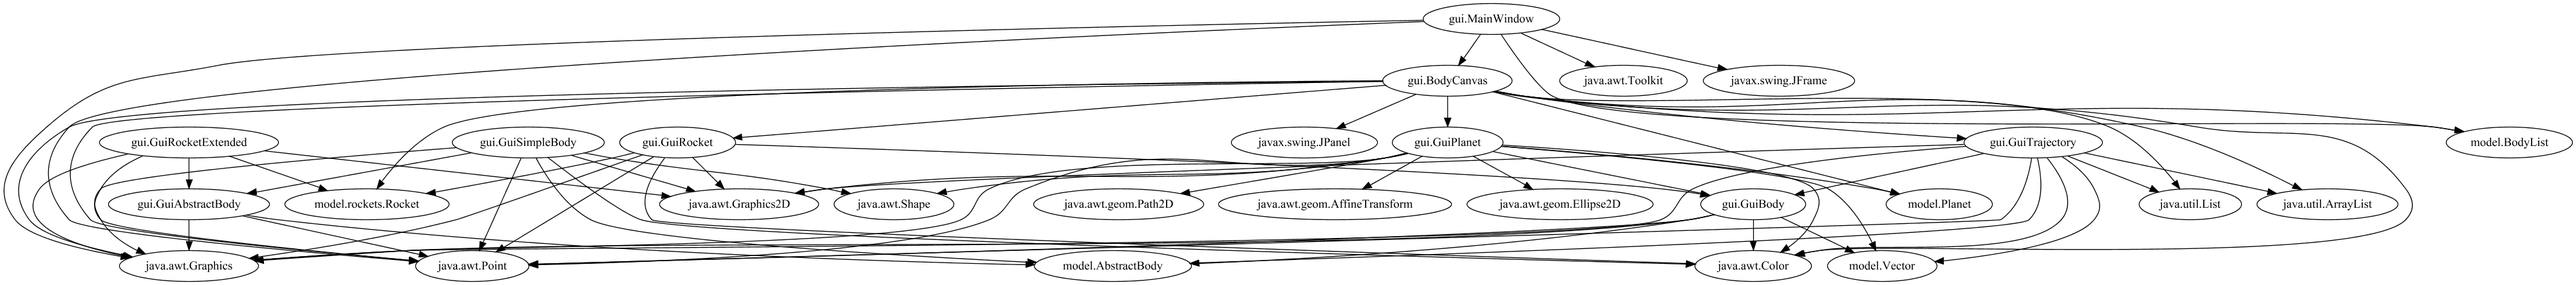
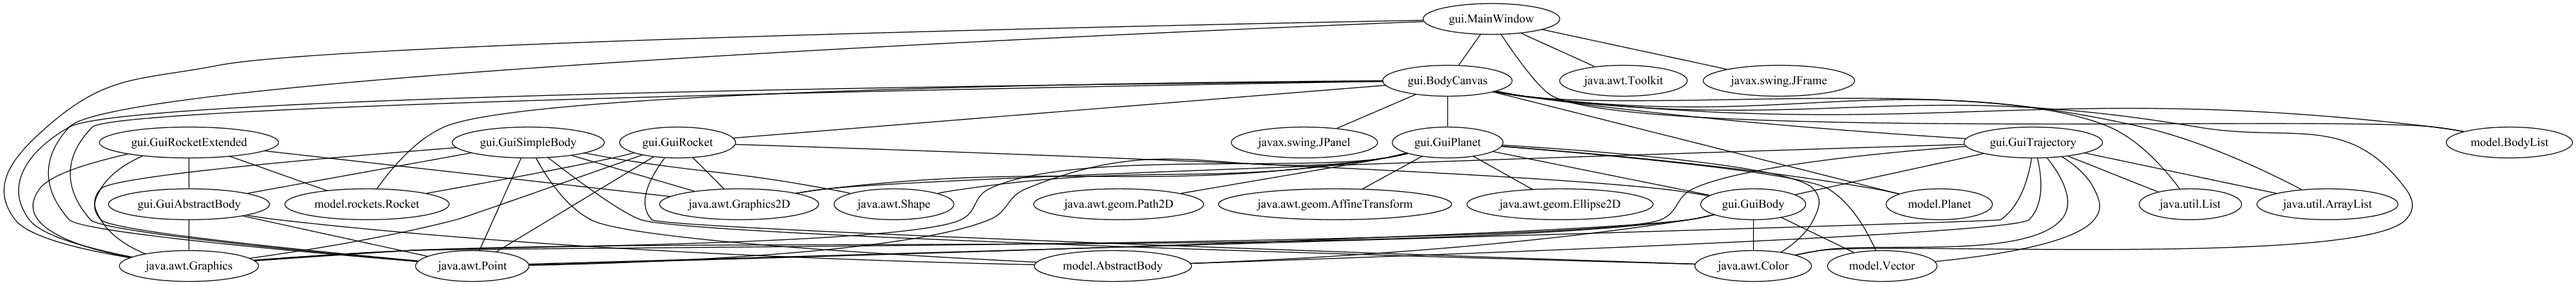
getTypes added

diff --git a/stringConnectionLocator/src/test/java/de/stringConnectionLocator/JavaFileTest.java b/stringConnectionLocator/src/test/java/de/stringConnectionLocator/JavaFileTest.java
@@ -3,23 +3,20 @@ package de.stringConnectionLocator;
 import static org.assertj.core.api.Assertions.assertThat;
 
 import java.io.IOException;
-import java.nio.file.Files;
 import java.util.List;
+import java.util.Set;
 
 import org.junit.Before;
 import org.junit.Test;
 
 public class JavaFileTest {
-	private static final String FILE = "C:\\Users\\Pieed\\git\\home\\RocketLearn\\src\\model\\BodyList.java";
+	private static final String FILE = "C:\\Users\\Pieed\\git\\home\\RocketLearn\\src\\model\\Planet.java";
+	private static final String FILE2 = "C:\\Users\\Pieed\\git\\home\\RocketLearn\\src\\model\\SimpleBody.java";
 	private ClassPath path;
 	private JavaFile javaFile;
 
 	@Before
 	public void setUp() throws IOException {
-		path = ClassPath.toClassPath(FILE);
-		List<String> content = Files.readAllLines(path.getPath());
-		javaFile = JavaFileBuilder.aJavaFile().withContent(content).withClassPath(path).withFilePath(path.getPath())
-				.build();
 		javaFile = JavaFile.parse(FILE);
 
 	}
@@ -38,7 +35,21 @@ public class JavaFileTest {
 	}
 
 	@Test
-	public void sameFolder() throws Exception {
+	public void getGetReturnTypes() throws Exception {
+		List<String> types = javaFile.getGetReturnTypes();
+		assertThat(types).isEqualTo("");
+	}
 
+	@Test
+	public void getPublicReturnPrimitives() throws Exception {
+		Set<String> types = javaFile.getPublicReturnPrimitives();
+		assertThat(types).contains("double", "boolean");
+	}
+
+	@Test
+	public void getPublicReturnTypes() throws Exception {
+		javaFile = JavaFile.parse(FILE2);
+		Set<String> types = javaFile.getPublicReturnTypes();
+		assertThat(types).contains("Vector");
 	}
 }

diff --git a/stringConnectionLocator/src/main/java/de/stringConnectionLocator/JavaFile.java b/stringConnectionLocator/src/main/java/de/stringConnectionLocator/JavaFile.java
@@ -4,7 +4,11 @@ import java.io.IOException;
 import java.nio.file.Files;
 import java.nio.file.Path;
 import java.util.ArrayList;
+import java.util.HashSet;
 import java.util.List;
+import java.util.Set;
+import java.util.regex.Matcher;
+import java.util.regex.Pattern;
 import java.util.stream.Collectors;
 
 import net.karneim.pojobuilder.GeneratePojoBuilder;
@@ -80,6 +84,37 @@ public class JavaFile {
 
 	public boolean uses(JavaFile javaFile) {
 		return getContentAsString().matches(".*\\b" + javaFile.getClassPath().getClassName() + "\\b.*");
+	}
+
+	public List<String> getGetReturnTypes() {
+		ArrayList<String> result = new ArrayList<>();
+		Matcher m = Pattern.compile(".?public \\b(\\w+)\\b get[A-Z].?").matcher(getContentAsString());
+		while (m.find()) {
+			result.add(m.group(1));
+		}
+		return result;
+	}
+
+	public Set<String> getPublicReturnPrimitives() {
+		Set<String> result = new HashSet<>();
+		Matcher m = Pattern.compile(".?public \\b([a-z]+\\w?)\\b \\w+.?").matcher(getContentAsString());
+		while (m.find()) {
+			if (!m.group(1).equals("class") && !m.group(1).equals("void")) {
+				result.add(m.group(1));
+			}
+		}
+		return result;
+	}
+
+	public Set<String> getPublicReturnTypes() {
+		Set<String> result = new HashSet<>();
+		Matcher m = Pattern.compile(".?public \\b([A-Z]\\w*)\\b \\w+.?").matcher(getContentAsString());
+		while (m.find()) {
+			if (!m.group(1).equals("class")) {
+				result.add(m.group(1));
+			}
+		}
+		return result;
 	}
 
 }

diff --git a/stringConnectionLocator/src/test/java/de/stringConnectionLocator/ClassGraphDrawerTest.java b/stringConnectionLocator/src/test/java/de/stringConnectionLocator/ClassGraphDrawerTest.java
@@ -27,7 +27,7 @@ public class ClassGraphDrawerTest {
 
 		GraphvizJdkEngine graphvizJdkEngine = new GraphvizJdkEngine();
 		Graphviz.useEngine(graphvizJdkEngine, graphvizJdkEngine);
-		Graph g = graph("example1").directed();
+		Graph g = graph("example1").cluster();
 		g = addImportEdges(sourceReader, g);
 		g = addSamePackageUsageEdges(sourceReader, g);
 		System.out.println(g.toString());
